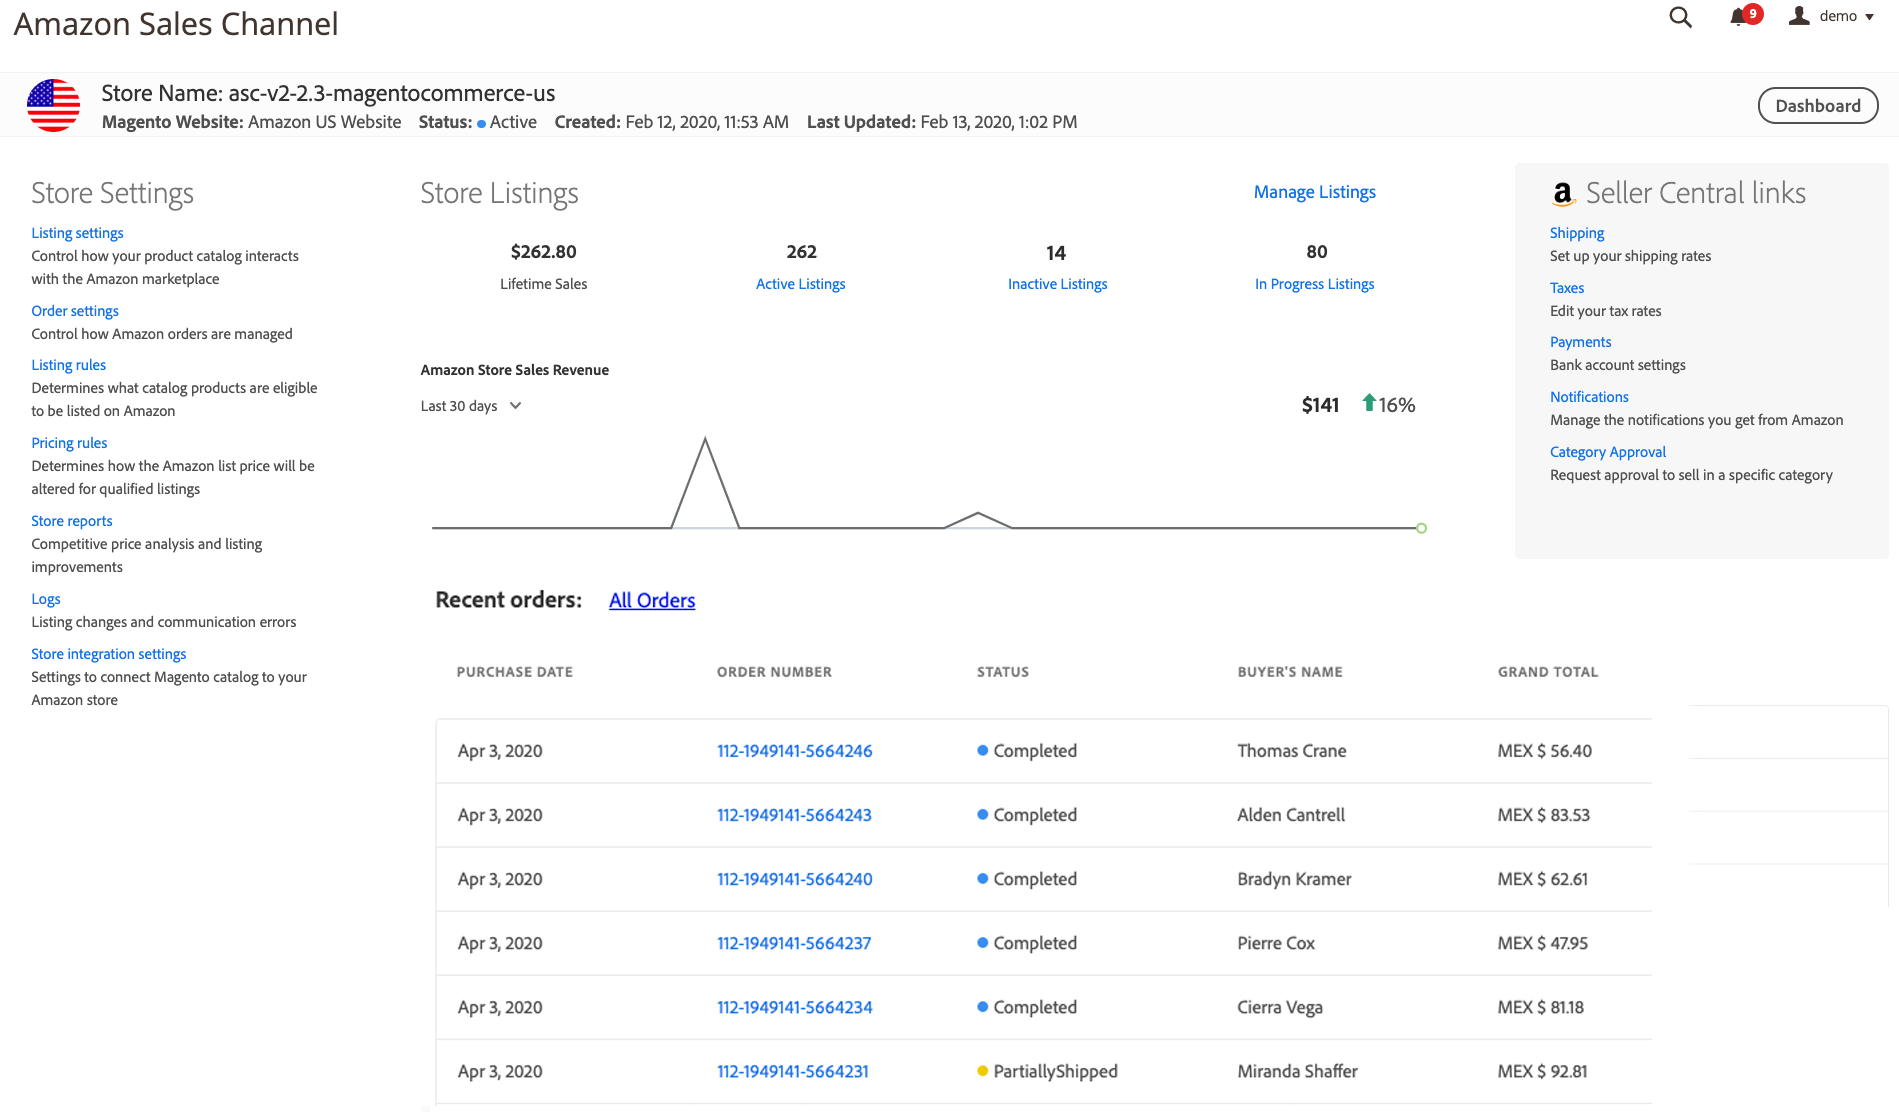
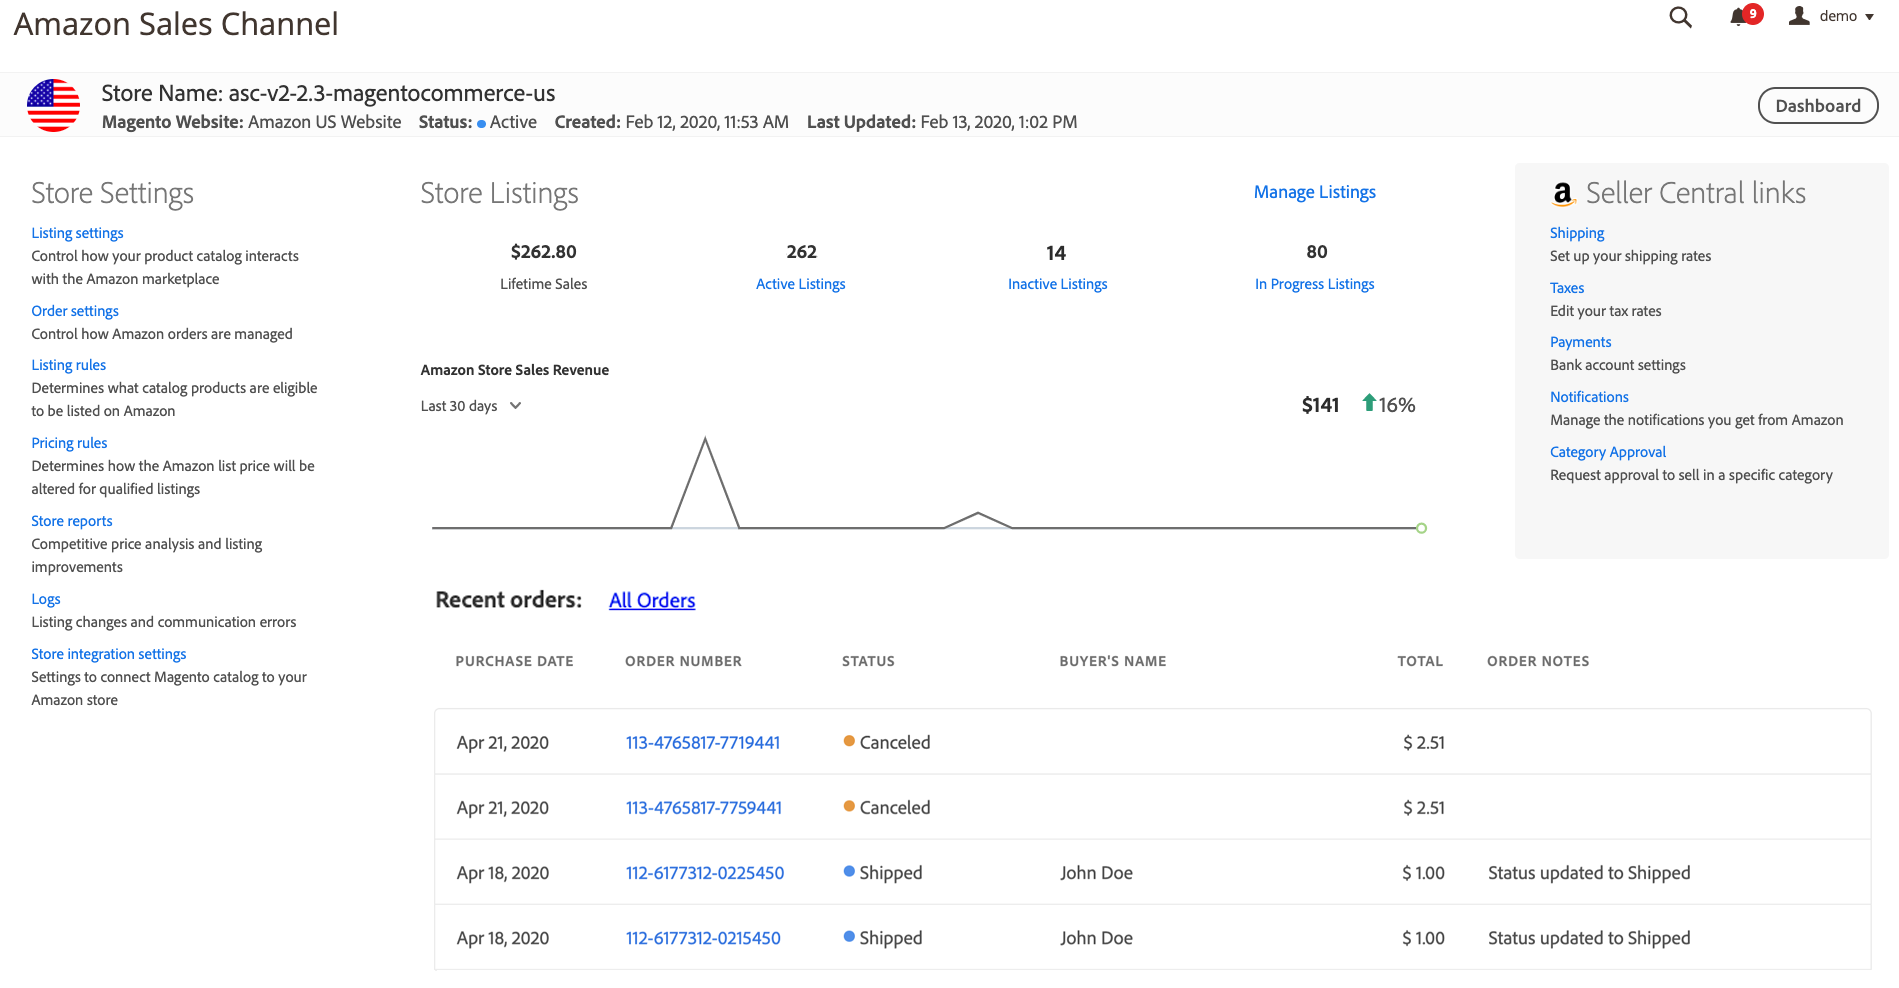
Updated View Amazon orders
to include the new order notes field

diff --git a/src/sales-channels/asc/amazon-orders-all.md b/src/sales-channels/asc/amazon-orders-all.md
@@ -12,11 +12,12 @@ Both options show you basic order information, as received from Amazon, includin
 - Status
 - Buyer's Name
 - Grand Total
+- Order Notes
 
 _All Orders_ view adds filtering options for order searches.
 
 {:.bs-callout .bs-callout-info}
-The _Amazon orders_ table is populated by information from Amazon. The table does not update with corresponding Magento order information, even when order import is enabled in [Order Settings]({% link sales-channels/asc/order-settings.md %}).
+With the exception of the _Order Notes_ column, the _Amazon orders_ table is populated with order information as received from Amazon. The _Order Notes_ column is updated by Magento as the order processes.
 
 ## View recent Amazon orders
 
@@ -54,7 +55,7 @@ _Amazon orders_
 
 1. To view order details, click the Amazon order number in the _Order Number_ column.
 
-   Depending on your order import setting, the order details will open in Amazon or in the Magento order workflow.
+   Depending on your order import setting, the order details will open in Amazon Seller Central or in the Magento order workflow.
 
 ### Default Columns
 
@@ -66,3 +67,4 @@ _Amazon orders_
 |Status|The status of the order, as received by Amazon. Options: Error / Pending / Shipped / Canceled / Completed / Unshipped / PartiallyShipped / PendingAvailability|
 |Buyer's Name|The name of the person who placed the order, as received from Amazon.|
 |Grand Total|The total currency value of the order, as received from Amazon.|
+|Order Notes|Most recent action recorded for the order as it processes in Magento. Information includes, but is not limited to, order import errors and order processing updates.<br/>**Note**: This field is updated by Magento as the order processes.|

diff --git a/src/sales-channels/asc/cancel-unshipped-order.md b/src/sales-channels/asc/cancel-unshipped-order.md
@@ -4,13 +4,18 @@ title: Cancel an Unshipped Order
 
 Amazon orders can only be canceled if they are in an `Unshipped` status. If the order is pending or partially shipped (unshipped), the order can only be canceled through your Amazon Seller Central account.
 
+{:.bs-callout .bs-callout-info}
+If you have [order import]({% link sales-channels/asc/order-settings.md %}) enabled, orders are managed in the [Magento orders workflow]({% link sales/orders.md %}). If [order import]({% link sales-channels/asc/order-settings.md %}) is disabled, you must manage your orders in Amazon Seller Central.
+
 ## Cancel an order in `Unshipped` status
+
+The process outlined below is applicable when [order import]({% link sales-channels/asc/order-settings.md %}) enabled.
 
 1. Click **View Store** on the store card.
 
 1. In the _Recent Orders_ section of the store dashboard, click an order number.
 
-    The order opens in the [Magento Order Process]({% link sales/order-processing.md %})
+   The order opens in the [Magento Order Process]({% link sales/order-processing.md %}).
 
 1. Scroll down to the _Payment & Shipping Method_ section and click **View or Cancel Amazon Order**.
 
@@ -25,4 +30,4 @@ Amazon orders can only be canceled if they are in an `Unshipped` status. If the 
 
     The cancellation notification will be sent to your Amazon Seller Central account, and the customer associated with the order will be notified. The status of the corresponding Magento order will change to `Complete`.
 
-1. Click **Cancel Order** in the header bar. The order is canceled, and the status is updated to `Canceled`.
+1. Click **Cancel Order** in the header bar. The order is canceled, and the status is updated to `Canceled` in the order details.

diff --git a/src/sales-channels/asc/managing-orders.md b/src/sales-channels/asc/managing-orders.md
@@ -36,6 +36,10 @@ There are a few scenarios that prevent the creation of the corresponding Magento
 |The item in the catalog is disabled. |Make sure the [product status]({% link catalog/inventory-product-stock-options.md %}) is enabled. |
 |The ordered item is out of stock. |Update or configure the [product options]({% link catalog/inventory-product-stock-options.md %}) for quantity and source. |
 
+When orders cannot be imported, a system message similar to the following will appear at the top of the screen:
+
+    `Your Amazon store(s) has orders that cannot be imported into Magento. See Recent Orders in the store dashboard(s): <store name>`
+
 When the issue is resolved, the Magento order is created on the next sync.
 
 ## With order import disabled
@@ -44,4 +48,4 @@ If you do not want to import and manage your your Amazon orders in Magento, you 
 
 When disabled, order information received from Amazon appears in the _Recent Orders_ section of the store dashboard and in the _All Orders_ view. This order information is view only, and you must manage these orders in Amazon Seller Central. Click the Amazon order number in the _Order Number_ column to open the order details in Amazon Seller Central. See [View Amazon Orders]({% link sales-channels/asc/amazon-orders-all.md %}).
 
-See also [Common Order Processing Tasks]({% link sales-channels/asc/common-order-processing.md %}).
+See also [View Amazon Orders]({% link sales-channels/asc/amazon-orders-all.md %}), [View Amazon Order Details]({% link sales-channels/asc/amazon-order-details.md %}), and [Common Order Processing Tasks]({% link sales-channels/asc/common-order-processing.md %}).

diff --git a/src/sales-channels/asc/amazon-order-details.md b/src/sales-channels/asc/amazon-order-details.md
@@ -18,7 +18,7 @@ _Amazon Order Details_
     The _Amazon Order Details_ page opens.
 
 {:.bs-callout .bs-callout-info}
-If you have order import enabled in your [Order Settings]({% link sales-channels/asc/order-settings.md %}) and the order is is [fulfilled by Amazon (FBA)]({% link sales-channels/asc/fulfilled-by.md %}), you may see dummy data for some fields in the order details. Amazon does not send the following data for FBA orders.<br/>- AddressType<br/>- AddressLine1<br/>- AddressLine2<br/>- AddressLine3<br/>- BuyerName<br/>- Phone<br/>- PurchaseOrderNumber<br/>- RecipientName<br/>- CustomizedURL<br/>- GiftMessageText
+If you have order import enabled in your [Order Settings]({% link sales-channels/asc/order-settings.md %}) and the order is [fulfilled by Amazon (FBA)]({% link sales-channels/asc/fulfilled-by.md %}), you may see dummy data for some fields in the order details. Amazon does not send the following data for FBA orders.<br/>- AddressType<br/>- AddressLine1<br/>- AddressLine2<br/>- AddressLine3<br/>- BuyerName<br/>- Phone<br/>- PurchaseOrderNumber<br/>- RecipientName<br/>- CustomizedURL<br/>- GiftMessageText
 
 ### Order and Shipping Details tab
 

diff --git a/src/sales-channels/asc/order-settings.md b/src/sales-channels/asc/order-settings.md
@@ -15,7 +15,7 @@ After [store integration]({% link sales-channels/asc/store-integration.md %}) is
 
 When an order is created on Amazon, it is not immediately imported into Magento. Amazon assigns a `Pending` status to newly created orders. After Amazon verifies the order and payment method, the order's status is changed to `Unshipped`. This status change triggers the order import, and Magento creates a matching, corresponding order.
 
-Orders imported from Amazon can be managed in the [Magento Orders]({% link sales/orders.md %}) workflow. See also [Manage Orders]({% link sales-channels/asc/managing-orders.md %}).
+Orders imported from Amazon can be managed in the [Magento orders workflow]({% link sales/orders.md %}). See also [Manage Orders]({% link sales-channels/asc/managing-orders.md %}).
 
 ## Configure order settings
 
